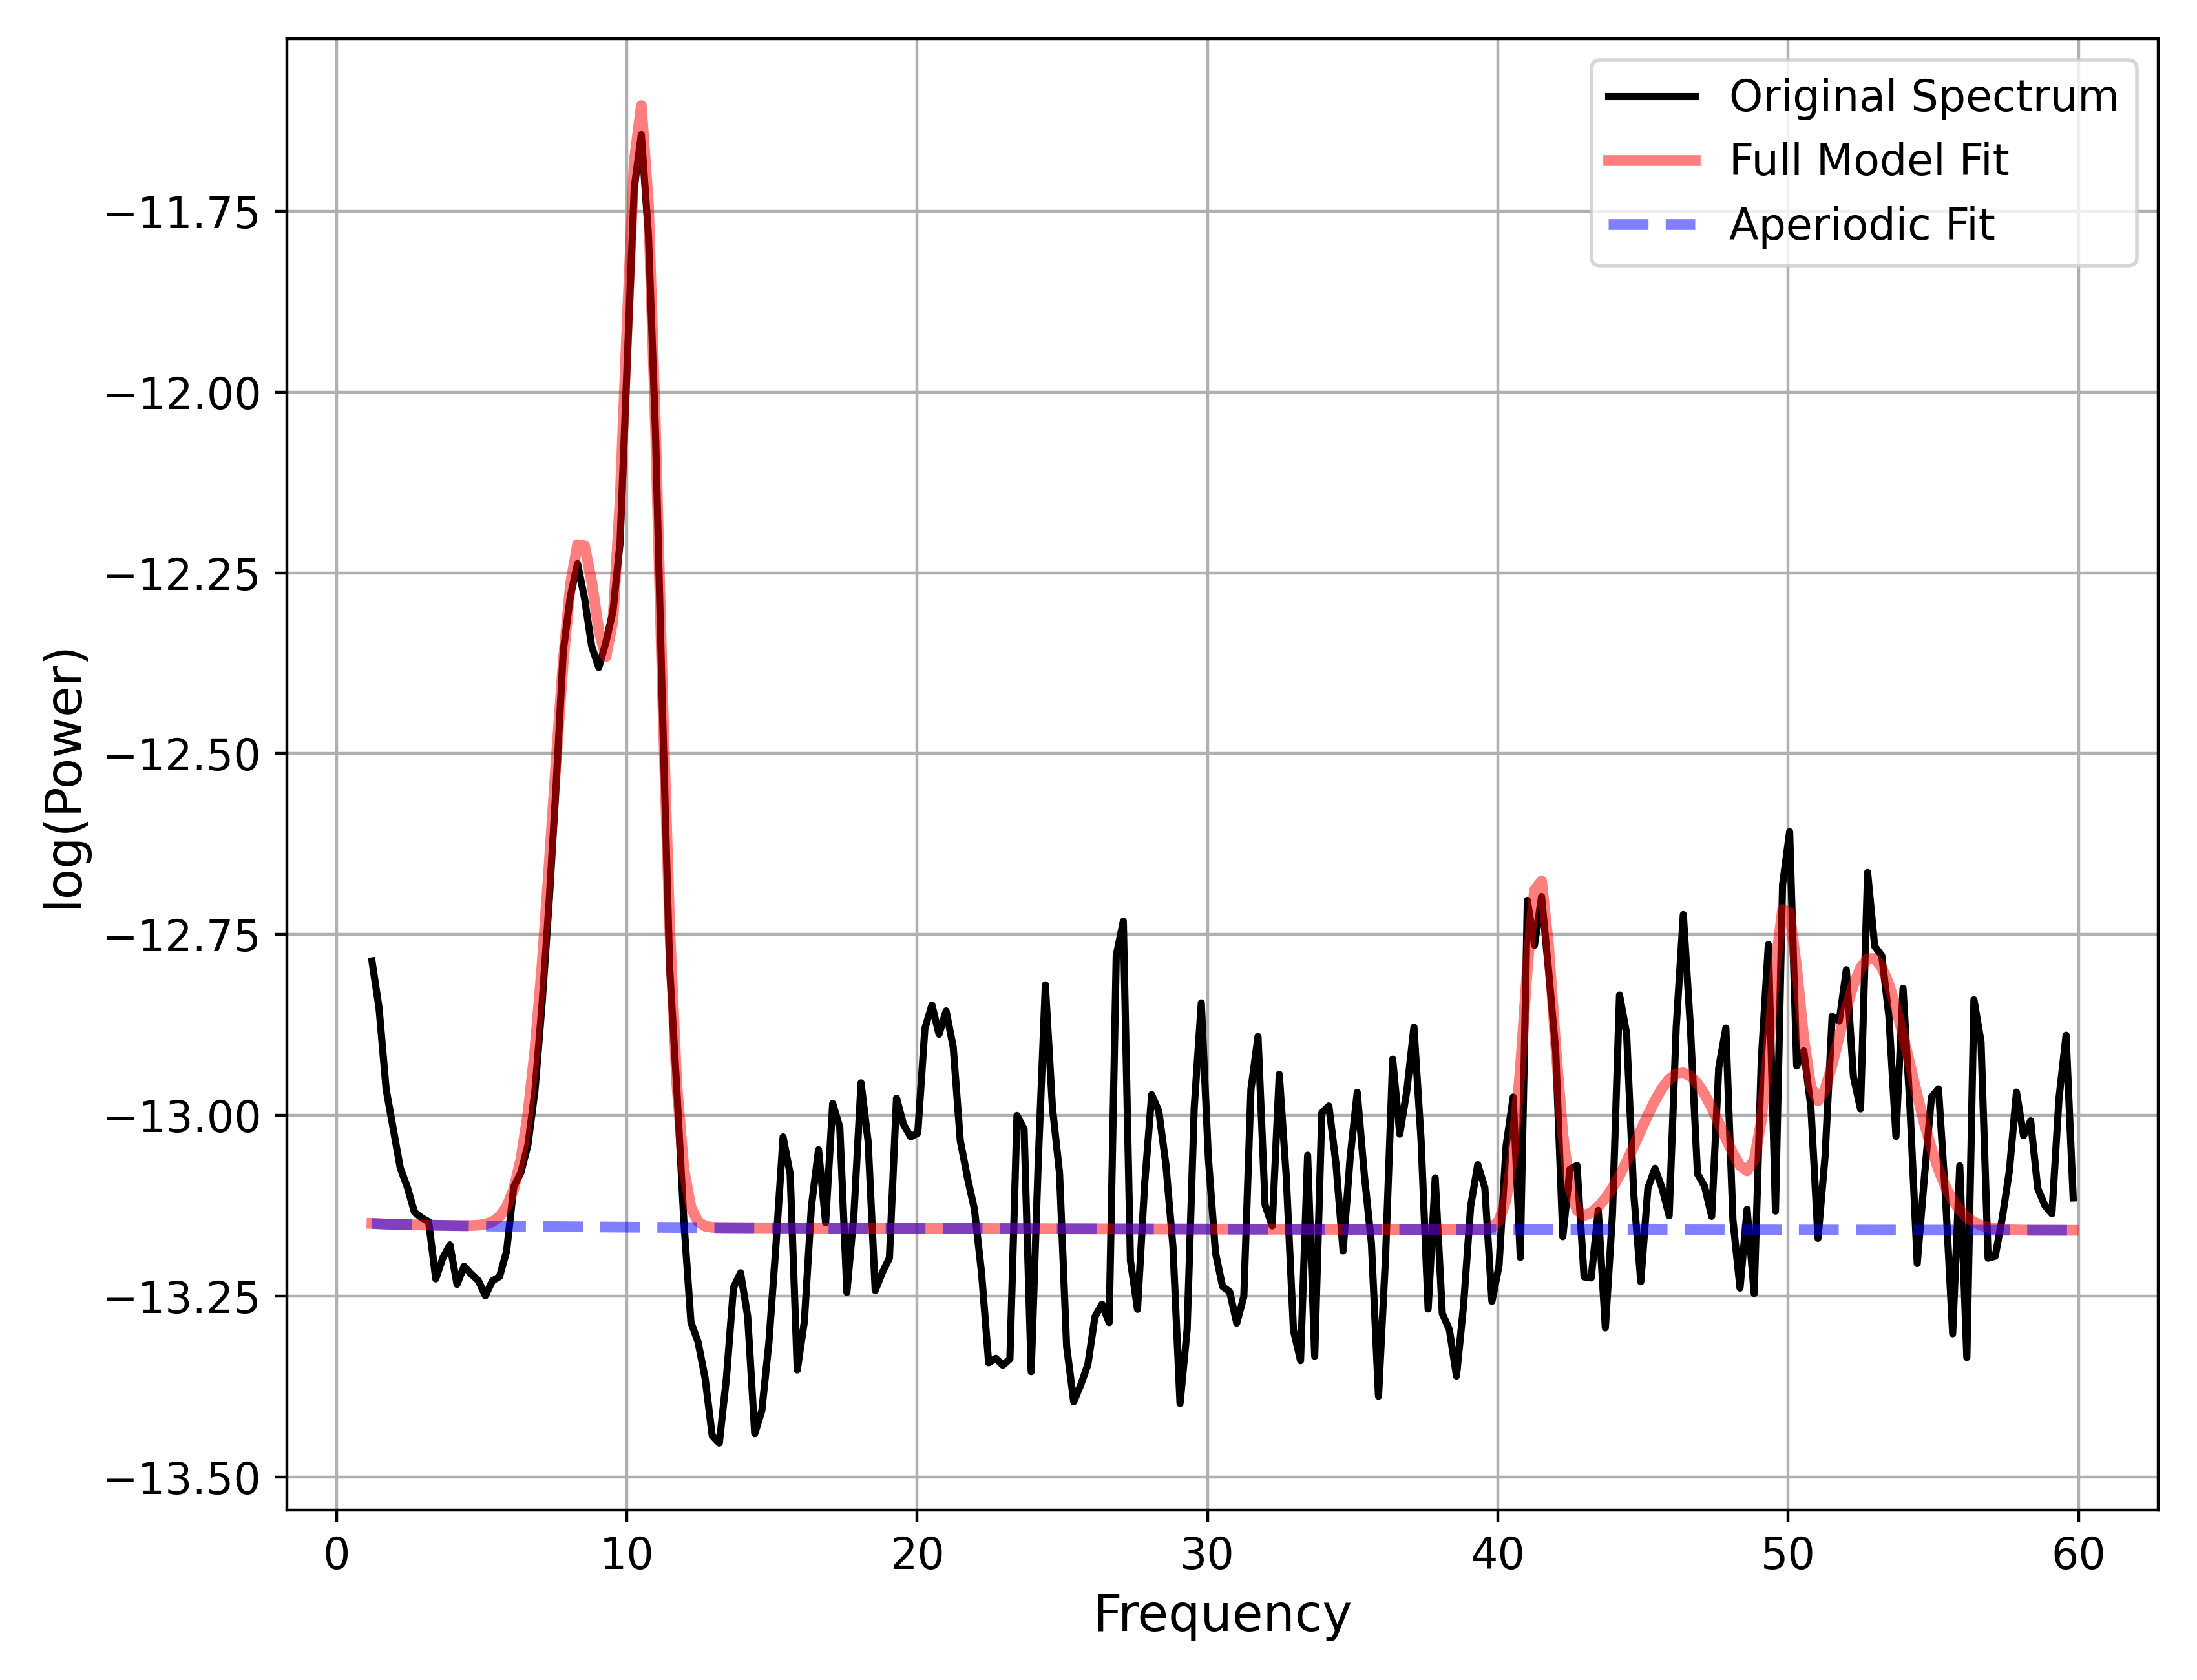
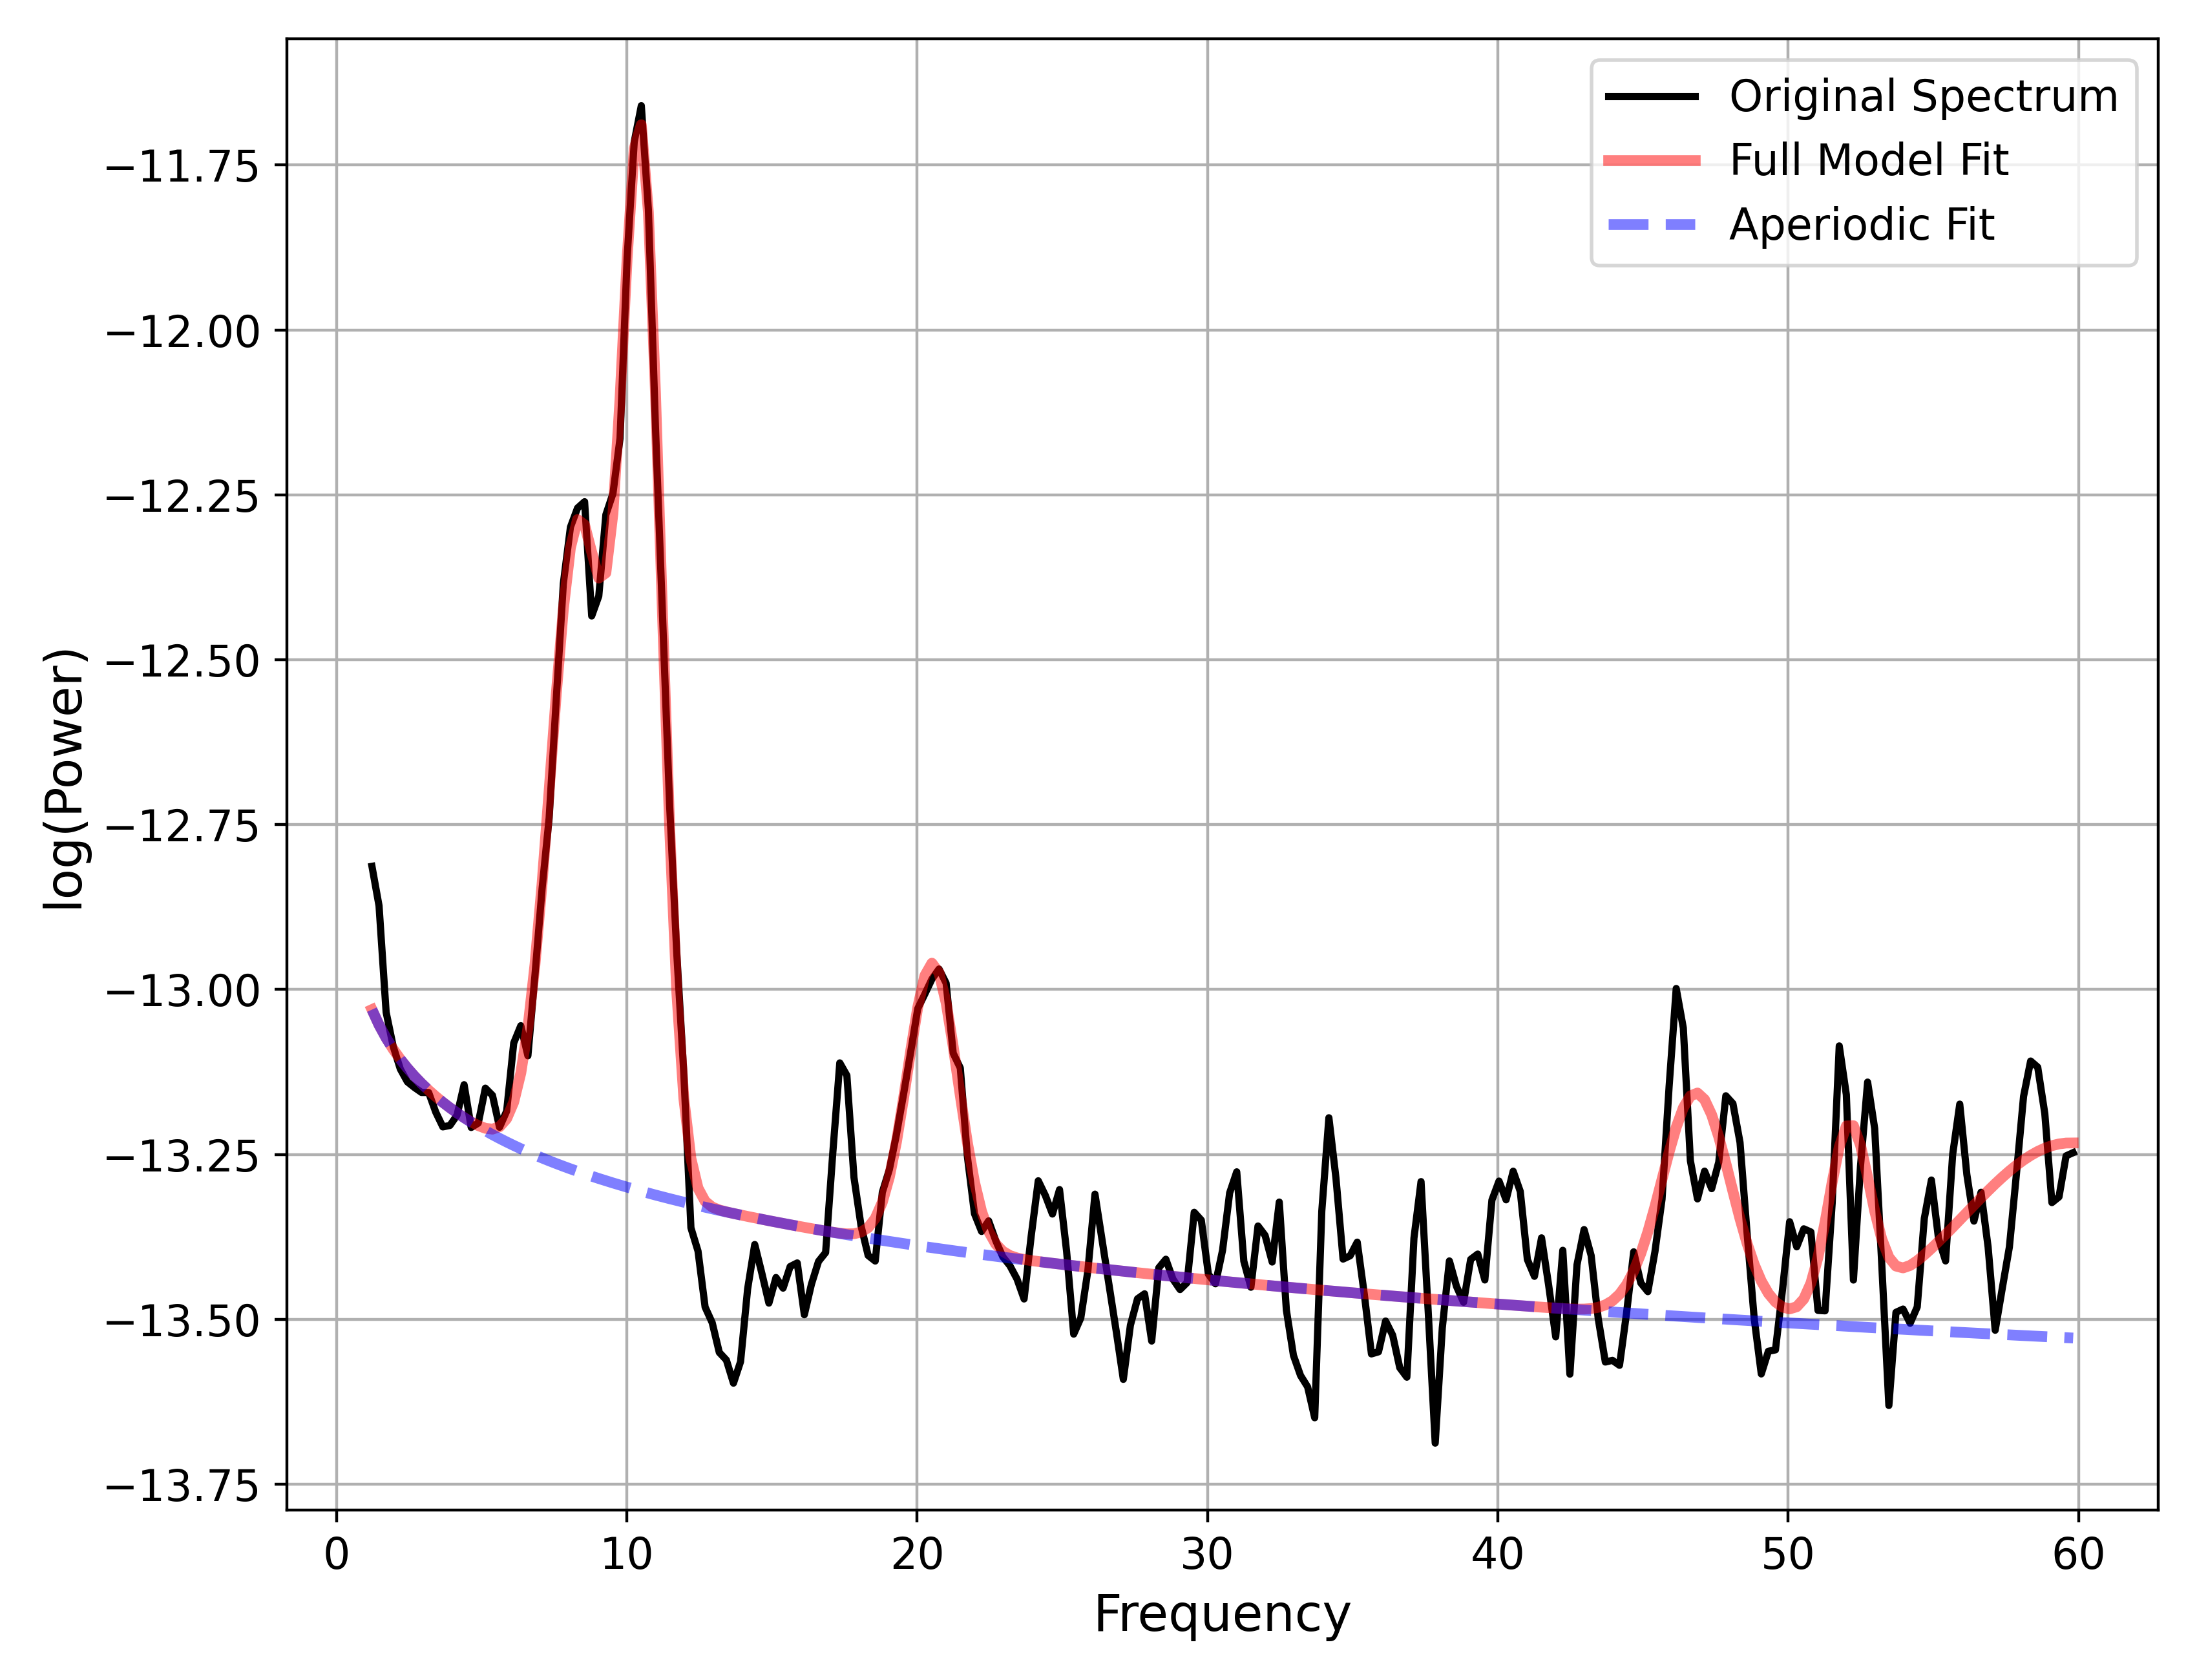
Add FIR filter coefficients for sub-001

diff --git a/code/01_get_filt_coeffs.py b/code/01_get_filt_coeffs.py
@@ -1,6 +1,6 @@
 # %%
 # packages and paths
-import subprocess
+import subprocess, os
 from json import dump, load
 from pathlib import Path
 
@@ -10,7 +10,12 @@ from scipy.io import savemat
 from scipy.signal import firwin
 from spectrum_analysis import compute_peak_bands, parameterize_spectrum
 
-with open("code\\settings.json", "r") as f:
+# change pwd to script directory to ensure relative paths work correctly
+pwd = Path(__file__).parent
+os.chdir(pwd)
+
+
+with open("settings.json", "r") as f:
     settings = load(f)
 
 sub_id = settings["sub_id"]
@@ -36,7 +41,7 @@ subject_dir.mkdir(parents=True, exist_ok=True)
 
 # save new paths into settings.json for use in MATLAB
 settings["coeffs_path"] = str(coeffs_path)
-with open("code/settings.json", "w") as f:
+with open("settings.json", "w") as f:
     dump(settings, f, indent=4)
 
 # %%
@@ -135,7 +140,7 @@ coefficients = firwin(numtaps, [lower, upper], fs=fs, pass_zero="bandpass")
 savemat(str(coeffs_path), {"coefficients": coefficients})
 
 # run git push to sync with remote repository
-subprocess.run(["git", "add", "*"], cwd=str(repo_root))
+subprocess.run(["git", "add", "."], cwd=str(repo_root))
 subprocess.run(
     ["git", "commit", "-m", f"Add FIR filter coefficients for {sub_id}"],
     cwd=str(repo_root),

diff --git a/code/convert_to_eeglab.m b/code/convert_to_eeglab.m
@@ -1,6 +1,8 @@
 cd(root);
 addpath(genpath('toolboxes'));
 
+eeglab('nogui');
+
 % load data
 subject_data = module_read_neurone(...
         fullfile(data_load, sub_id), ...